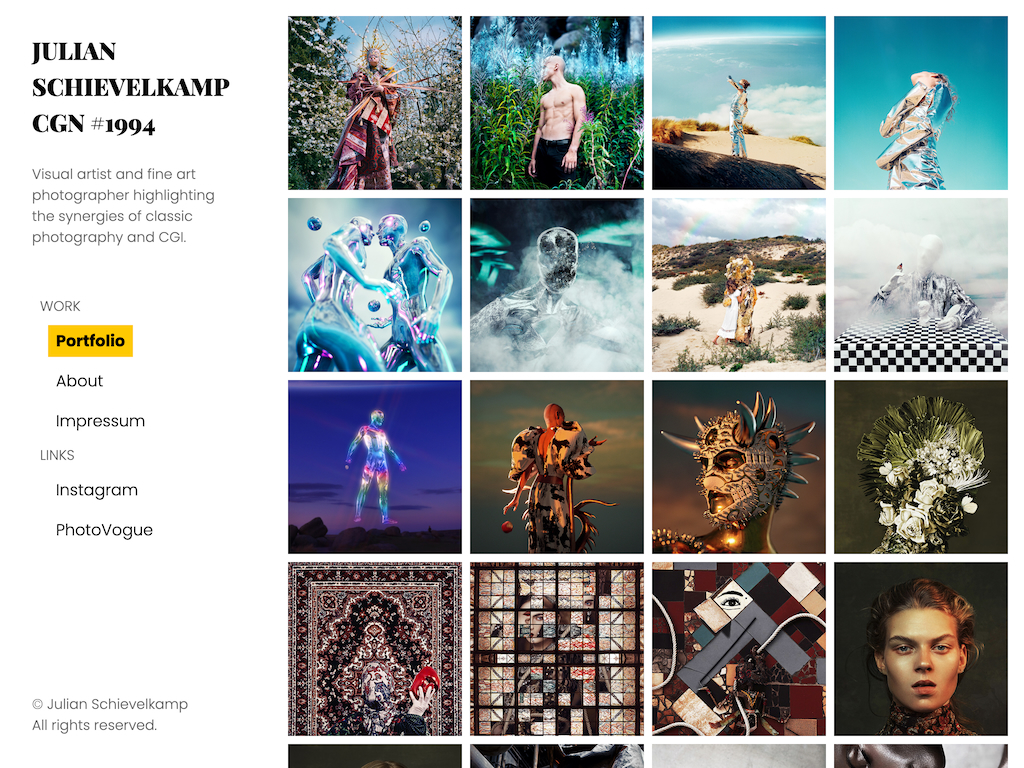
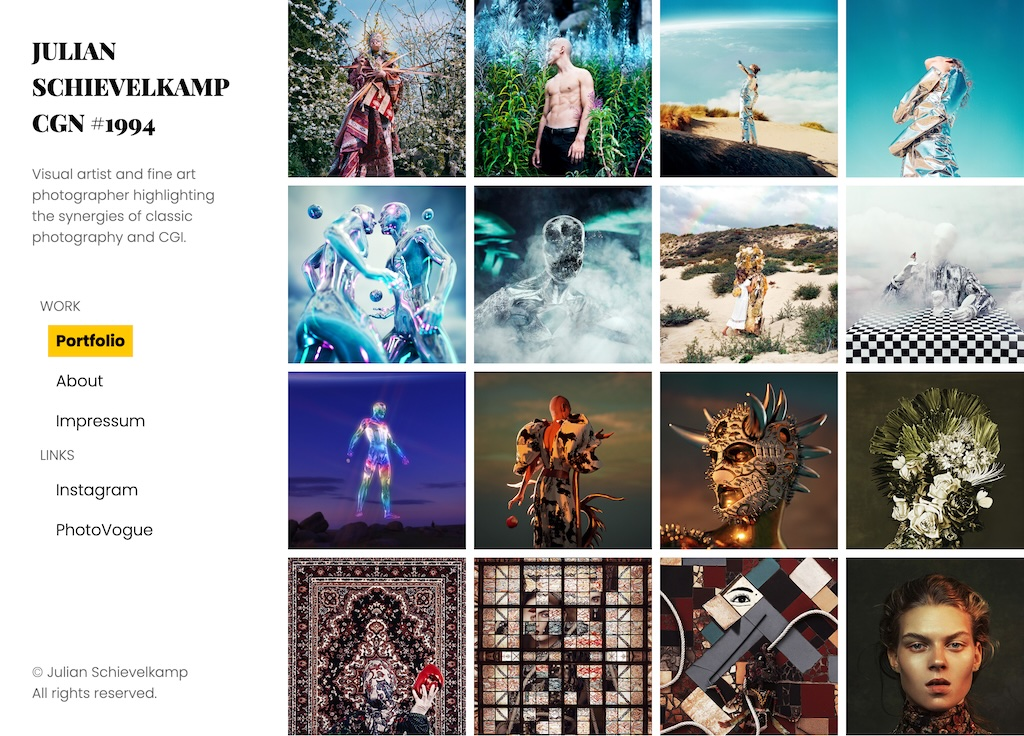
update portfolio preview image

diff --git a/src/elements/layout/ProjectList/ProjectCard/ProjectCard.tsx b/src/elements/layout/ProjectList/ProjectCard/ProjectCard.tsx
@@ -6,6 +6,7 @@ import Text from "elements/components/Text/Text";
 
 import {
     Description,
+    PreviewLink,
     StyledProjectCard,
     Tool,
     Tools,
@@ -19,12 +20,12 @@ interface ProjectCardProps {
 const ProjectCard = ({ index, project }: ProjectCardProps) => {
     return (
         <StyledProjectCard $index={index}>
-            <Link href={project.link} target="_blank">
+            <PreviewLink href={project.link} target="_blank">
                 <Image
                     src={project.preview}
                     alt={`Preview of ${project.title}`}
                 />
-            </Link>
+            </PreviewLink>
 
             <section>
                 <Headline type="h2">

diff --git a/src/elements/layout/ProjectList/ProjectCard/ProjectCard.styles.ts b/src/elements/layout/ProjectList/ProjectCard/ProjectCard.styles.ts
@@ -1,5 +1,6 @@
 import styled, { keyframes } from "styled-components";
 
+import Link from "elements/components/Link/Link";
 import Text from "elements/components/Text/Text";
 import { playOnce } from "styles/animations";
 import { colors, queries } from "styles/variables";
@@ -25,6 +26,11 @@ export const StyledProjectCard = styled.li<{ $index: number }>`
     @media ${queries.md} {
         grid-template-columns: 1fr 1fr;
     }
+`;
+
+export const PreviewLink = styled(Link)`
+    display: inline-flex;
+    height: fit-content;
 `;
 
 export const Description = styled(Text)`
